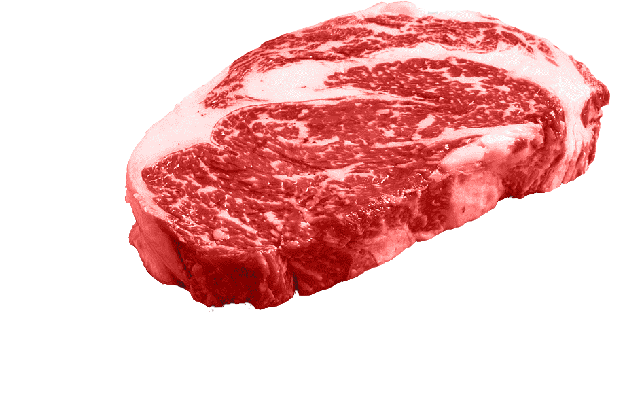
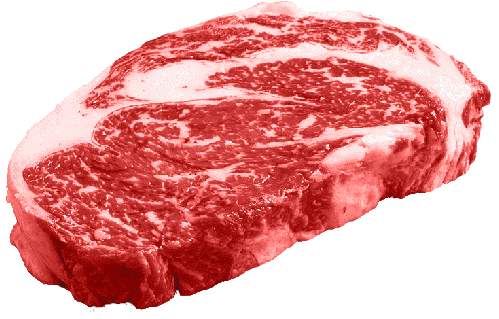
styles and positions items card

diff --git a/products.html b/products.html
@@ -21,7 +21,19 @@
 
     <div class="products">
         <div class="card">
-            
+            <img height="50%" width="50%" src="images/beef_1.png" alt="beef">
+                <div class="item_description">
+                    <h2>BEEF</h2>
+                    <p> Lorem Ipsum</p>
+                </div>
+            <div class="pricetag">
+                <h2>
+                    Price per kg: Ksh. 1500 <br>
+                    Ready by: 16th Nov
+                </h2>
+            </div>
+            <button id="shop">SHOP</button>
+                    
         </div>
 
     </div>

diff --git a/products.css b/products.css
@@ -29,3 +29,29 @@ body{
 /* nav_bar */
 
 /* products */
+.card{
+    background-color: white;
+    width: 35%;
+    height: 450px;
+}
+.card img{
+    margin-left: 50px;
+    margin-top: 50px;
+}
+.item_description{
+    float: right;
+    margin-right: 150px;
+    margin-top: 50px;
+}
+.pricetag{
+    margin-left: 50px;
+}
+#shop{
+    float: right;
+    margin-right: 100px;
+    margin-top: -70px;
+    height: 50px;
+    width: 150px;
+    background-color: #5AC11D;
+    border: 1px solid #5AC11D;
+}
